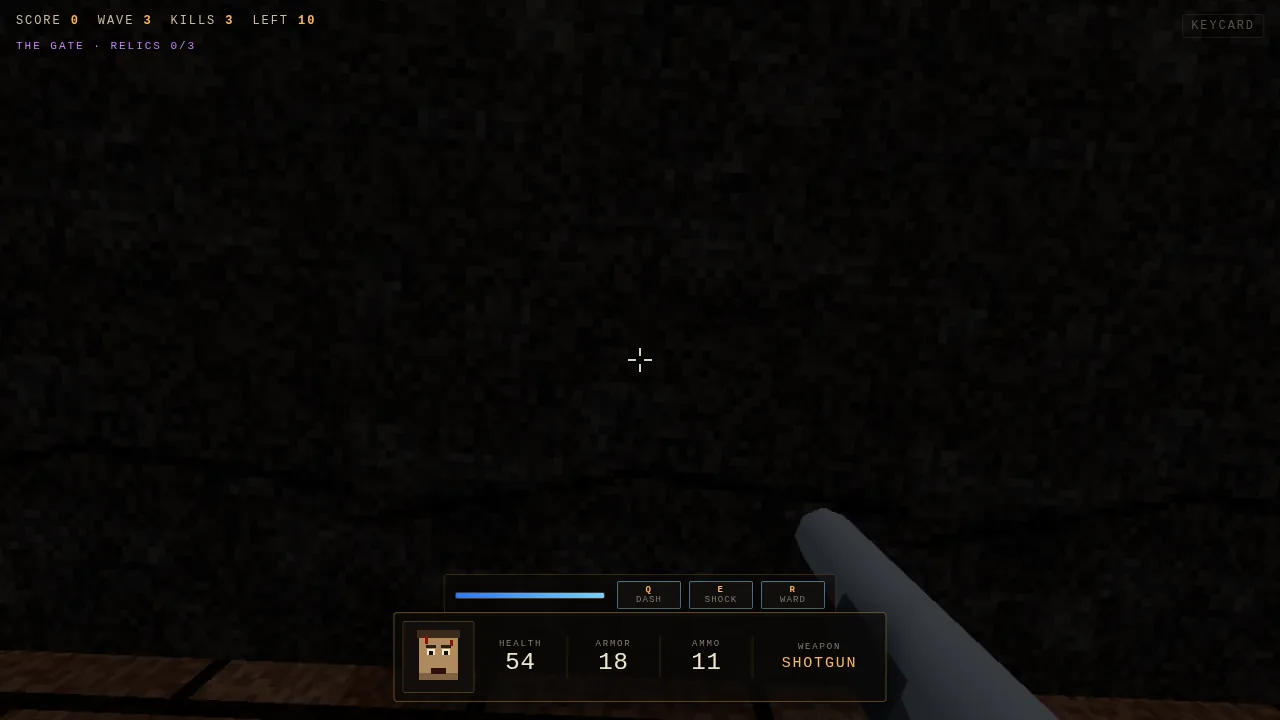
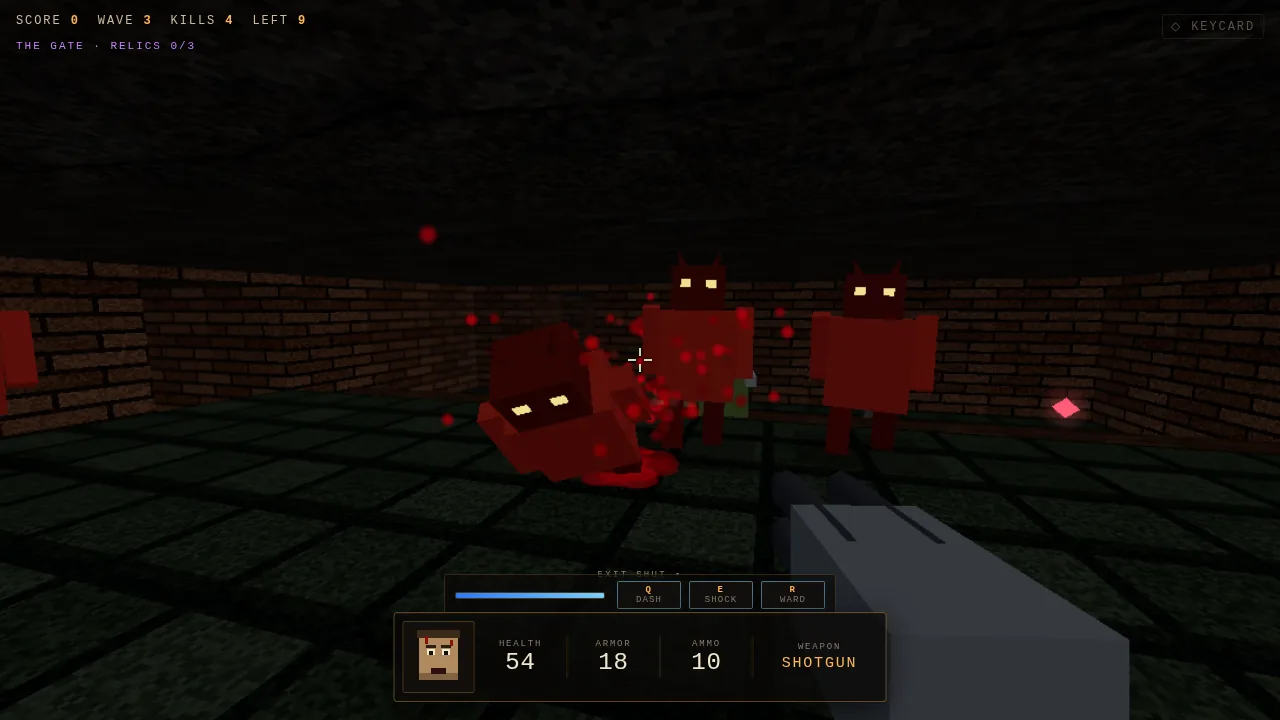
feat: Tier A of the audit replan — 1.22.0
- NOTICE.md: Three.js is vendored MIT and its full permission text was not
  shipped, only the SPDX header. That is a licence obligation, now closed.
- grenade button on touch: the feature shipped in 1.21.0 was unreachable on a
  phone.
- colour-blind cues finished (roadmap 3): exit reads EXIT OPEN / EXIT SHUT in
  words, keycard is a hollow or filled diamond, damage arrow is a triangle.
- doors slide up over 400 ms (39); corpses persist, last twelve kept (40);
  blood pools at death (41); contact shadow under each enemy (43).
- 6 new assertions.

diff --git a/play/src/enemies.js b/play/src/enemies.js
@@ -183,6 +183,9 @@ function makeHound() {
   return { group: g, parts: { legL: legFL, legR: legFR, legBL, legBR } };
 }
 
+/** How many bodies stay in the world before the oldest is cleared. */
+const MAX_CORPSES = 12;
+
 /**
  * One enemy: mesh, state machine, health. Geometry is shared per type; body materials are cloned for the hit flash.
  */
@@ -277,6 +280,10 @@ export class Enemy {
   }
 
   die(ctx) {
+    if (ctx && ctx.effects) {
+      const f = floorHeightAt(ctx.level, this.pos.x, this.pos.z);
+      ctx.effects.decal({ x: this.pos.x, y: f + 0.012, z: this.pos.z }, { x: 0, y: 1, z: 0 }, 'blood', 1.5);
+    }
     this.dead = true;
     this.state = STATE.DEATH;
     this.stateT = 0;
@@ -298,12 +305,25 @@ export class Enemy {
     this.mesh.position.z = this.pos.z;
     this.mesh.position.y = f;
 
+    // contact shadow: cheap, one quad, follows the body and fades when it dies
+    if (!this.shadow && ctx && ctx.effects && ctx.effects.groundShadow) {
+      this.shadow = ctx.effects.groundShadow(this.hitRadius * 2.2);
+    }
+    if (this.shadow) {
+      this.shadow.position.set(this.pos.x, f + 0.02, this.pos.z);
+      this.shadow.material.opacity = this.state === STATE.DEATH ? 0.18 : 0.34;
+    }
+
     if (this.state === STATE.DEATH) {
       this.deadT += dt;
       const t = Math.min(1, this.deadT / 0.45);
       this.mesh.rotation.x = (Math.PI / 2) * t * 0.92;
-      if (this.deadT > 1.4) this.mesh.position.y = f - (this.deadT - 1.4) * 0.55;
-      if (this.deadT > 2.6) this.remove();
+      // the body stays on the floor: a wave that clears leaves a room that
+      // looks like a fight happened in it
+      if (this.deadT > 1.4) {
+        const sink = Math.min(1, (this.deadT - 1.4) / 1.2);
+        this.mesh.position.y = f - 0.12 * sink;   // settles, does not sink away
+      }
       return;
     }
 
@@ -551,6 +571,12 @@ export class Enemy {
 
   remove() {
     this.scene.remove(this.mesh);
+    if (this.shadow) {
+      this.scene.remove(this.shadow);
+      this.shadow.geometry.dispose();
+      this.shadow.material.dispose();
+      this.shadow = null;
+    }
     for (const m of this.flashMats) m.dispose();
     this.flashMats.length = 0;
     this.removed = true;
@@ -672,6 +698,13 @@ export class EnemyManager {
       },
     };
     for (const e of this.list) e.update(dt, ctx);
+
+    // corpses stay, but not forever: the last MAX_CORPSES bodies, oldest first
+    const dead = this.list.filter((e) => e.state === STATE.DEATH || !e.alive);
+    if (dead.length > MAX_CORPSES) {
+      for (const e of dead.slice(0, dead.length - MAX_CORPSES)) e.remove();
+      this.list = this.list.filter((e) => !e.removed);
+    }
 
     // soft separation so they do not stack into one blob
     const n = this.list.length;

diff --git a/play/index.html b/play/index.html
@@ -163,6 +163,10 @@
     100%{opacity:0;transform:translate(-50%,-140%) scale(1)}
   }
 
+  #exitstate{position:absolute;left:50%;bottom:140px;transform:translateX(-50%);
+    font-size:9px;letter-spacing:.26em;color:#8d7f6c;pointer-events:none;transition:color .2s}
+  #exitstate.open{color:#39ff9a}
+
   #grenades{position:absolute;left:50%;bottom:120px;transform:translateX(-50%);
     font-size:9px;letter-spacing:.3em;color:#9fd67f;opacity:.85;pointer-events:none}
   #grenades.empty{opacity:.25}
@@ -290,7 +294,7 @@
   #tLook{position:absolute;right:0;top:0;width:52%;height:100%;pointer-events:auto;touch-action:none}
   #tBtns{
     position:absolute;right:12px;bottom:calc(14px + env(safe-area-inset-bottom));
-    display:grid;grid-template-columns:repeat(3,44px);gap:8px;pointer-events:auto;
+    display:grid;grid-template-columns:repeat(3,44px);grid-template-rows:repeat(3,44px);gap:8px;pointer-events:auto;
   }
   #tBtns button{
     width:44px;height:44px;border-radius:50%;background:rgba(18,16,14,.78);
@@ -300,6 +304,7 @@
   #tBtns button:active{background:rgba(255,180,84,.3)}
   #tFire{grid-column:3;grid-row:1}
   #tWeap{grid-column:3;grid-row:2}
+  #tNade{grid-column:2;grid-row:3}
 
   /* phones: the HUD and the touch furniture have to share one screen */
   @media (max-width:620px){
@@ -329,6 +334,10 @@
     20%{opacity:1;transform:translate(-50%,-60%) scale(1.1)}
     100%{opacity:0;transform:translate(-50%,-140%) scale(1)}
   }
+
+  #exitstate{position:absolute;left:50%;bottom:140px;transform:translateX(-50%);
+    font-size:9px;letter-spacing:.26em;color:#8d7f6c;pointer-events:none;transition:color .2s}
+  #exitstate.open{color:#39ff9a}
 
   #grenades{position:absolute;left:50%;bottom:120px;transform:translateX(-50%);
     font-size:9px;letter-spacing:.3em;color:#9fd67f;opacity:.85;pointer-events:none}
@@ -431,6 +440,7 @@
       <span id="bossname">WARDEN</span>
       <div id="bosswrap"><div id="bossfill"></div></div>
     </div>
+    <div id="exitstate">EXIT SHUT ▪</div>
     <div id="grenades"></div>
     <div id="stamina"><i></i></div>
     <div id="killfeed"></div>
@@ -579,6 +589,7 @@
       <button id="tP2">E</button>
       <button id="tP3">R</button>
       <button id="tWeap">GUN</button>
+      <button id="tNade">NADE</button>
       <button id="tJump">JMP</button>
       <button id="tFire">FIRE</button>
     </div>

diff --git a/play/src/main.js b/play/src/main.js
@@ -440,6 +440,23 @@ function clearRelics() {
   game.relics.length = 0;
 }
 
+// Doors rise out of the floor over 400 ms rather than popping out of existence.
+function updateDoors(dt) {
+  if (!levelMeshes || !levelMeshes.doorMeshes) return;
+  for (const m of levelMeshes.doorMeshes) {
+    if (!m.userData.opening) continue;
+    if (m.userData.baseY == null) m.userData.baseY = m.position.y;
+    m.userData.slide = Math.min(1, m.userData.slide + dt / 0.4);
+    const k = m.userData.slide;
+    m.position.y = m.userData.baseY + k * 3.2;      // a little over the ceiling
+    m.scale.y = Math.max(0.02, 1 - k);
+    if (k >= 1) {
+      m.visible = false;
+      m.userData.opening = false;
+    }
+  }
+}
+
 function dropTrinket(id, pos) {
   const t = trinketById(id);
   if (!t) return;
@@ -520,7 +537,12 @@ function startWave(n) {
   game.exitOpen = false;
   game.warnedKey = false;
   level.doorOpen = false;
-  levelMeshes.doorMeshes.forEach((m) => { m.visible = true; });
+  levelMeshes.doorMeshes.forEach((m) => {
+    m.visible = true;
+    m.userData.slide = 0;
+    m.userData.opening = false;
+    m.position.y = m.userData.baseY != null ? m.userData.baseY : m.position.y;
+  });
   getMats()['pad'].color.setHex(0x552222);
 
   clearPickups();
@@ -828,7 +850,11 @@ function openExit() {
   game.score += gained;
   game.exitOpen = true;
   level.doorOpen = true;
-  levelMeshes.doorMeshes.forEach((m) => { m.visible = false; });
+  // doors slide up instead of vanishing: the mesh stays, the animation sells it
+  for (const m of levelMeshes.doorMeshes) {
+    m.userData.slide = 0;
+    m.userData.opening = true;
+  }
   getMats()['pad'].color.setHex(0x39ff9a);
   audio.play('door');
   effects.addShake(0.3);
@@ -1579,6 +1605,7 @@ function update(dt) {
   if (props) props.update(dt, player);
   updateRelics(dt);
   updateDrops(dt);
+  updateDoors(dt);
   effects.update(dt);
   updatePickups(dt);
   checkWave();
@@ -1721,6 +1748,7 @@ hud.setVisible(false);
 if (TOUCH) {
   document.body.classList.add('has-touch');
   touchCleanup = initTouch(input, {
+    grenade: () => throwGrenade(),
     jump: () => { input.jumpQueued = true; },
     fire: () => {
       if (game.state !== 'playing') return;

diff --git a/play/src/hud.js b/play/src/hud.js
@@ -33,6 +33,7 @@ export class HUD {
     this.elFeed = document.getElementById('killfeed');
     this.elStamina = document.getElementById('stamina');
     this.elGrenades = document.getElementById('grenades');
+    this.elExitState = document.getElementById('exitstate');
     this.staminaBar = this.elStamina ? this.elStamina.firstElementChild : null;
     this.damageNumbers = true;
     this.elBuffs = document.getElementById('buffs');
@@ -203,6 +204,14 @@ export class HUD {
     }
 
     if (state) {
+      // exit compass: a chevron pointing at the pad once the wave is cleared.
+      // The chevron carries the direction; the label carries the state, so the
+      // cue survives a colour-blind player and a greyscale screenshot.
+      if (this.elExitState) {
+        this.elExitState.textContent = state.exitOpen ? 'EXIT OPEN \u25b8' : 'EXIT SHUT \u25aa';
+        this.elExitState.classList.toggle('open', !!state.exitOpen);
+      }
+
       // exit compass: a chevron pointing at the pad once the wave is cleared
       if (state.exitOpen && state.exit && state.camera) {
         const cam = state.camera;

diff --git a/play/src/effects.js b/play/src/effects.js
@@ -193,6 +193,20 @@ export class Effects {
     t.life = t.max;
   }
 
+  /**
+   * A soft dark quad on the floor, parented to nothing: the caller moves it.
+   * Used as a contact shadow under each enemy.
+   */
+  groundShadow(size = 1) {
+    const mat = new THREE.MeshBasicMaterial({
+      color: 0x000000, transparent: true, opacity: 0.34, depthWrite: false,
+    });
+    const mesh = new THREE.Mesh(new THREE.PlaneGeometry(size, size), mat);
+    mesh.rotation.x = -Math.PI / 2;
+    this.scene.add(mesh);
+    return mesh;
+  }
+
   decal(point, normal, kind = 'blood', size = 0.55) {
     const d = this.decals[this.dCursor];
     this.dCursor = (this.dCursor + 1) % MAX_DECALS;

diff --git a/ENHANCEMENTS.md b/ENHANCEMENTS.md
@@ -16,7 +16,7 @@ Cheap, low-risk, immediately noticeable. All `S`.
 
 1. **Settings that persist** — mouse sensitivity, FOV (70–100) and a reduced-motion toggle in a small panel, saved to `localStorage` next to the best run. `main.js` · S · high — ✓ shipped
 2. **Reduced motion** — one checkbox that disables screen shake, weapon bob and the vignette pulse. The landing page already honours `prefers-reduced-motion`; the game should too. `effects.js` · S · high (accessibility) — ✓ shipped
-3. **Colour-blind-safe palette** — the damage arrow, keycard chip and "EXIT OPEN" state are all colour-coded. Add a shape or icon difference as well as a hue change. `hud.js` · S · high (accessibility) — ◑ keycard chip reads ◇/◆ now; the exit compass and damage arrow are already directional
+3. **Colour-blind-safe palette** — the damage arrow, keycard chip and "EXIT OPEN" state are all colour-coded. Add a shape or icon difference as well as a hue change. `hud.js` · S · high (accessibility) — ✓ shipped (keycard ◇/◆, exit reads "EXIT OPEN ▸"/"EXIT SHUT ▪", damage arrow is a triangle)
 4. **Volume + mute** — `M` to mute, a gain slider, persisted. `audio.js` · S · medium — ✓ shipped
 5. **Weapon cycle on the wheel** — `wheel` already means nothing in a pointer-locked canvas. `main.js` · S · medium — ✓ shipped
 6. **Restart from the pause menu** — currently you must die or reload to reseed. `main.js` · S · medium — ✓ shipped
@@ -58,11 +58,11 @@ Cheap, low-risk, immediately noticeable. All `S`.
 
 37. **Sector portals / real 2.5D** — the current model is one floor and one ceiling per cell. Storing per-cell floor *and* ceiling polygons with portal edges would allow true multi-level rooms, stairs and catwalks. This is the big one. `level.js` + `levelmesh.js` · XL · very high
 38. **Stairs and ramps** — a stair cell type with 2–3 sub-steps, so height changes stop being a hard 0.5 m cliff. `level.js` · L · high — ✓ shipped (raised platforms with a three-step band)
-39. **Door animation** — doors currently pop out of existence. Slide them up over 400 ms with a sound. `levelmesh.js` · M · high
-40. **Enemy corpses persist** — leave the last N bodies instead of sinking them all. Needs per-enemy material cloning for a fade (already half-done for the hit flash). `enemies.js` · M · medium
-41. **Blood pools on the floor** — a decal at the death position, oriented to the floor normal. `effects.js` · S · medium
+39. **Door animation** — doors currently pop out of existence. Slide them up over 400 ms with — ✓ shipped a sound. `levelmesh.js` · M · high
+40. **Enemy corpses persist** — leave the last N bodies instead of sinking them all. Needs pe — ✓ shipped (12 kept, oldest cleared)r-enemy material cloning for a fade (already half-done for the hit flash). `enemies.js` · M · medium
+41. **Blood pools on the floor** — a decal at the death position, oriented to the floor norma — ✓ shippedl. `effects.js` · S · medium
 42. **Bullet-hole decals with correct orientation on every surface** — already works on walls; verify floors and ceilings and cap by surface type. `effects.js` · S · medium
-43. **Shadow or fake contact shadow under enemies** — a dark blob decal that follows each enemy; makes them feel grounded without a shadow map. `enemies.js` · M · high
+43. **Shadow or fake contact shadow under enemies** — a dark blob decal that follows each ene — ✓ shippedmy; makes them feel grounded without a shadow map. `enemies.js` · M · high
 44. **Post-processing** — a cheap bloom for muzzle flashes and explosions, plus a slight vignette and colour grade. UnrealBloomPass needs the addons build; a hand-written single-pass bloom is lighter. `main.js` · L · high
 45. **Instanced enemies** — one `InstancedMesh` per body part across all enemies, with per-instance matrices and colours. Would cut ~12 draw calls per enemy to 12 per *wave*. `enemies.js` · L · high
 46. **Chunked level meshes** — split the merged geometry into 4×4-cell chunks so frustum culling actually removes geometry. Trades 5 draw calls for ~25. `levelmesh.js` · M · medium

diff --git a/NOTICE.md b/NOTICE.md
@@ -1,0 +1,48 @@
+# Notice
+
+HELLGATE bundles third-party software. This file records what, under what terms, and where it sits.
+
+## Three.js
+
+| | |
+| --- | --- |
+| Project | Three.js — <https://threejs.org> |
+| Version | r187 |
+| Files | `play/vendor/three.module.js`, `play/vendor/three.core.js` |
+| Licence | MIT |
+| Copyright | Copyright © 2010-2026 Three.js Authors |
+
+The MIT licence text, reproduced as the licence requires:
+
+```
+Permission is hereby granted, free of charge, to any person obtaining a copy
+of this software and associated documentation files (the "Software"), to deal
+in the Software without restriction, including without limitation the rights
+to use, copy, modify, merge, publish, distribute, sublicense, and/or sell
+copies of the Software, and to permit persons to whom the Software is
+furnished to do so, subject to the following conditions:
+
+The above copyright notice and this permission notice shall be included in
+all copies or substantial portions of the Software.
+
+THE SOFTWARE IS PROVIDED "AS IS", WITHOUT WARRANTY OF ANY KIND, EXPRESS OR
+IMPLIED, INCLUDING BUT NOT LIMITED TO THE WARRANTIES OF MERCHANTABILITY,
+FITNESS FOR A PARTICULAR PURPOSE AND NONINFRINGEMENT. IN NO EVENT SHALL THE
+AUTHORS OR COPYRIGHT HOLDERS BE LIABLE FOR ANY CLAIM, DAMAGES OR OTHER
+LIABILITY, WHETHER IN AN ACTION OF CONTRACT, TORT OR OTHERWISE, ARISING FROM,
+OUT OF OR IN CONNECTION WITH THE SOFTWARE OR THE USE OR OTHER DEALINGS IN
+THE SOFTWARE.
+```
+
+The files carry their own SPDX header; this file ships the full permission text that the header alone
+does not.
+
+## Everything else
+
+Every texture, sound, model and line of level geometry in this repository is generated at runtime by
+the code in `play/src`. There are no image files, audio files or model files to attribute. The
+screenshots in `assets/` are captures of this game.
+
+The fonts are the system monospace and sans stacks; no webfont is bundled.
+
+Checked 19 Nov 2026 against commit `07fb599`.

diff --git a/CHANGELOG.md b/CHANGELOG.md
@@ -1,5 +1,31 @@
 # Changelog
 
+## 1.22.0 — 2026-11-19
+
+Tier A of the audit replan: seven quick wins, one of them a legal obligation.
+
+**`NOTICE.md`** — Three.js is vendored under MIT. The file keeps its SPDX header but the full
+permission text was not shipped; `NOTICE.md` now carries it, the version, the file paths and a
+statement that every other asset is generated at runtime.
+
+**Grenade on touch** — a seventh button in the touch grid. The feature shipped in 1.21.0 was
+unreachable on a phone.
+
+**Colour-blind cues finished** (roadmap 3) — the exit reads `EXIT OPEN ▸` or `EXIT SHUT ▪` in words as
+well as colour, the keycard chip is ◇ or ◆, and the damage indicator is a triangle, not a hue.
+
+**Doors animate** (roadmap 39) — they slide up over 400 ms instead of vanishing.
+
+**Corpses persist** (roadmap 40) — bodies settle on the floor and stay; the last twelve are kept and
+the oldest is cleared, so a wave leaves a room that looks like a fight happened in it.
+
+**Blood pools** (roadmap 41) and **contact shadows** (roadmap 43) — a decal at the death position and a
+soft quad under every enemy.
+
+**Tests** — 6 new assertions: a body stays and stays listed, an enemy carries a shadow, doors animate,
+the touch layout has a grenade button.
+
+
 ## 1.21.0 — 2026-11-19
 
 **Grenades** (roadmap 24)
